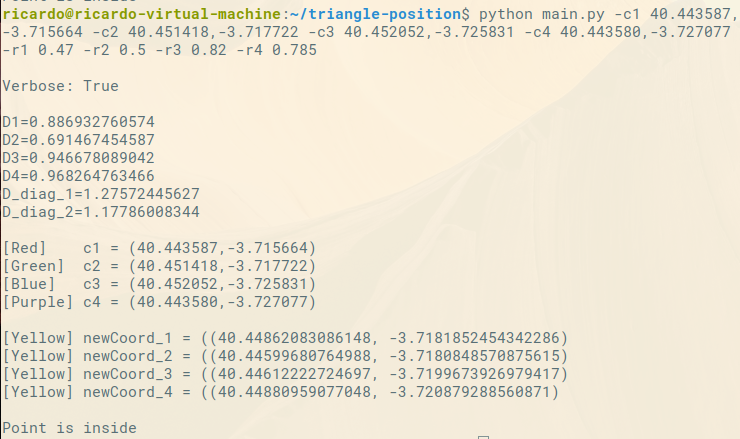
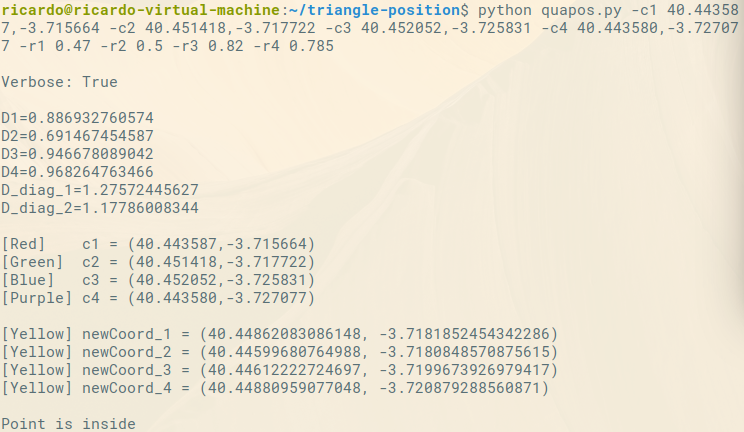
Painting polygon instead of 4 points in quapos.py

diff --git a/quapos.py b/quapos.py
@@ -3,7 +3,8 @@ from geopy.distance import vincenty, great_circle
 from mpl_toolkits.basemap import Basemap
 import matplotlib.pyplot as plt
 import numpy as np
-import matplotlib.patches as patches
+#import matplotlib.patches as patches
+from matplotlib.patches import Polygon
 
 
 def get_args():
@@ -37,24 +38,29 @@ def generateCoord(coord_string):
 	return( (lat,lon) )
 
 
+
+
 def drawMap(base_coords,calculated_coords,ratios):
 	deg_diff=1.5
 	m = Basemap(llcrnrlon=(float(base_coords[3][1])),llcrnrlat=(float(base_coords[3][0])-deg_diff),urcrnrlon=(float(base_coords[3][1])+deg_diff ),urcrnrlat=(float(base_coords[3][0]) +deg_diff), epsg=5520)
 	m.arcgisimage(service='ESRI_StreetMap_World_2D', xpixels = 1500, verbose= False)
+
 	#Paint coords
 	colors = ['red','green','blue','purple']
 	counter = 0
 	for coord in base_coords:
 		drawPoint(coord[0],coord[1],m,colors[counter])
 		counter+=1
+	#Paint polygon
+	lats = []
+	lons = []
 	for coord in calculated_coords:
-		drawPoint(coord[0],coord[1],m,'y')
-	#for coord in base_coords:
-	# circle = patches.Circle((0,0),1, color='g')
-	# fig6 = plt.figure()
-	# ax6 = fig6.add_subplot(111, aspect='equal')
-	# ax6.add_patch(circle)
-	# fig6.savefig('circle6.png', dpi=90, bbox_inches='tight')
+		lats.append(coord[0])
+		lons.append(coord[1])
+	x,y = m(lons,lats)
+	xy = zip(x,y)
+	poly = Polygon( xy, facecolor='yellow', alpha=0.4 )
+	plt.gca().add_patch(poly)
 	plt.show()
 
 
@@ -154,7 +160,7 @@ def getCoords(args):
 		print("\nVerbose: True")
 		print("\nD1="+str(D1)+" \nD2="+str(D2)+" \nD3="+str(D3)+" \nD4="+str(D4)+" \nD_diag_1="+str(D_diag_1)+" \nD_diag_2="+str(D_diag_2) )
 		print ("\n[Red]\t c1 = ("+args.coordenadas1+") \n[Green]\t c2 = ("+args.coordenadas2+") \n[Blue]\t c3 = ("+args.coordenadas3+") \n[Purple] c4 = ("+args.coordenadas4+")")
-		print ("\n[Yellow] newCoord_1 = ("+str(newCoord_1)+"\n[Yellow] newCoord_2 = ("+str(newCoord_2)+"\n[Yellow] newCoord_3 = ("+str(newCoord_3)+"\n[Yellow] newCoord_4 = ("+str(newCoord_4) )
+		print ("\n[Yellow] newCoord_1 = "+str(newCoord_1)+"\n[Yellow] newCoord_2 = "+str(newCoord_2)+"\n[Yellow] newCoord_3 = "+str(newCoord_3)+"\n[Yellow] newCoord_4 = "+str(newCoord_4) )
 		checkRatiosInside(ratios,D_diag_1,D_diag_2)
 	
 	drawMap(base_coords,calculated_coords,ratios)

diff --git a/README.md b/README.md
@@ -1,6 +1,11 @@
 # triangle-position
 Triangle position given 3 coordinates and 3 radios or 4 coordinates and 4 radios
 
+- *tripos.py*: triangulate ONE coordinate from 3 coordinates + 3 ratios
+
+- *quapos.py*: triangulate one AREA calculating 4 points from the 4 coordinates + 4 ratios (like executing tripos.py 4 times with 4 coordinates)
+
+
 
 ## 3 coordinates
 
